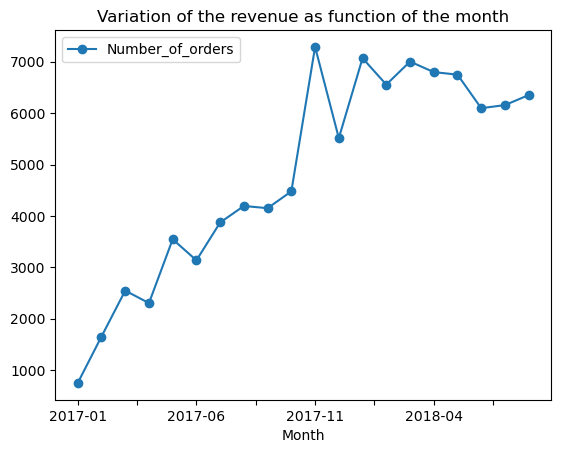
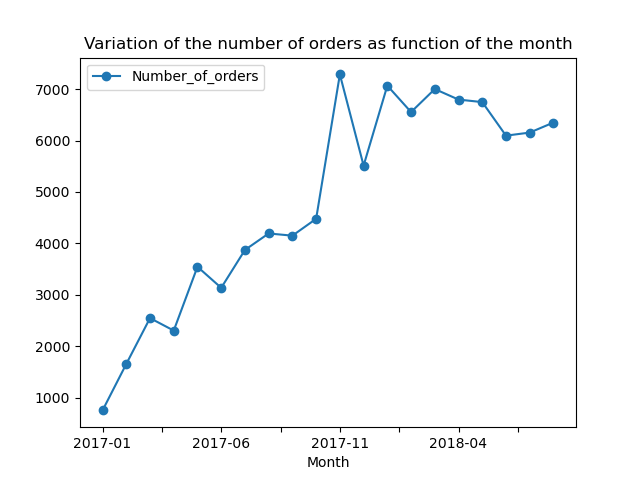
Add readme and small fixes

Changed region(s): [[0.0, 0.0, 0.9697, 0.989]]

diff --git a/findings.md b/findings.md
@@ -1,3 +1,5 @@
+**Dataset:** [Brazilian E-Commerce Public Dataset by Olist (Kaggle)](https://www.kaggle.com/datasets/olistbr/brazilian-ecommerce)
+
 ## Data checks before starting analysis
 - Customers ID count: 99441, from which 96096 are real customers with unique ID. This means that 3345 (3.4%) of orders are repeat orders, meaning they are not that customer's first order.
 -> Decision: the customer unique ID is used for customer analysis.
@@ -35,14 +37,14 @@ The top 5 days with the most orders during november 2017 are respectively the: 2
 ## Top product categories by revenue
 - The top 3 product categories by revenue make 25.92% of the total revenue. The lead goes to 'health_beauty' category with 1229557.50 in revenue corresponding to a 9.33% share of total revenue. In second place we have 'watches_gifts' category with 1163187.91 in revenue (8.83% share), and in third place 'bed_bath_table' with 1022955.77 in revenue (7.76% share). 
 - However, this doesn't mean that they are the most ordered categories since the top 3 is respectively: 'bed_bath_table' with 9267 distinct orders, 'health_beauty' with 8610 orders, and 'sports_leisure' with 7512 orders.
-- Although the category 'watches_gifts' is the most expensive between the top 3 revenue generators, it is only in the 10th place out of all categories with an average price per item of 198.73 R$. The category 'computers' is in the first place with an average of 1098.92 R$ per item. However, the category's average revenue per order is 211.91 R$. This only about 1.07 times the average item price (198.73 R$), so most orders in this category contain a single item.
+- Although the category 'watches_gifts' is the most expensive between the top 3 revenue generators, it is only in the 10th place out of all categories with an average price per item of 198.73 R$. The category 'computers' is in the first place with an average of 1098.92 R$ per item. However, the category's average revenue per order is 211.91 R$. This is only about 1.07 times the average item price (198.73 R$), so most orders in this category contain a single item.
 
 ## Delivery time by state
 - We define delivery time as the interval of time between the order purchase and its delivery to the customer. 
 We selected only states with more than 1000 delivered orders. The average delivery time over all selected states is 15.13 days. The top 3 states with the slowest average delivery time (days) are respectively: CE (21.24), BA (19.33), and PE (18.45).
 - The top 5 states in terms of number of sellers are respectively: SP (1849), PR (349), MG (244), SC (190), and RJ (171). All these states are in the southern half of Brazil, which can possibly be the reason behind the northeast states of CE, BA, and PE being the top 3 states in terms of slowest average delivery time while the state of SP is the fastest with an average of 8.74 days.
-- To test this hypothesis, we computed the average delivery days for orders with one seller. We found that single seller orders delivered within the same state take 7.9 days on average, while they 15.2 days across different states. Distance is strongly associated with delivery time, though same-state orders are mostly SP to SP, so other factors may also play a role. 
-Orders with more than one seller represent 1.35% (466 orders) of the total number for deliveries in the same state, and they represent 1.31% (806 orders) for deliveries between different states.
+- To test this hypothesis, we computed the average delivery days for orders with one seller. We found that single seller orders delivered within the same state take 7.9 days on average, while those across different states take 15.2 days. Distance is strongly associated with delivery time, though same-state orders are mostly SP to SP, so other factors may also play a role. 
+Orders with several sellers were excluded from this comparison (466 same-state orders, 1.35% of total same state orders; 806 cross-state orders, 1.31%).
 
 ## Late delivery vs reviews
 - Orders with late delivery compared to the estimated delivery date have an average review score of 2.57/5 (7658 orders). On the other hand, orders delivered on time have an average of 4.3/5 (87902 orders). In addition, 164 orders delivered late got no reviews, compared to 479 for orders delivered on time. In total, 8.13% of orders are delivered late.
@@ -51,7 +53,7 @@ Orders with more than one seller represent 1.35% (466 orders) of the total numbe
 - In summary, late orders score 1.73 points lower, and about 46% of them get 1 star versus 6.5% of on-time orders, so delays are strongly associated with dissatisfaction.
 
 ## Cumulative revenue
-- 10% of the total revenue was earned by the end of May 2017 (after 5 months). By the end of September 2017(after 9 months), revenues had passed 25% of the total. Half of all the revenue was earned by the end of January 2018 (after 13 months).
+- 10% of the total revenue was earned by the end of May 2017 (after 5 months). By the end of September 2017 (after 9 months), revenues had passed 25% of the total. Half of all the revenue was earned by the end of January 2018 (after 13 months).
 
 ## Top 3 sellers per category
 - For the top 5 categories in terms of revenue ('health_beauty', 'watches_gifts', 'bed_bath_table', 'sports_leisure', 'computers_accessories'), 'watches_gifts' sits on the top of the table in terms of concentration of sales. The top 3 sellers for this category contribute respectively to: 17.1%, 16.2%, and 13.6% of its total revenue, which adds up to 46.9%.

diff --git a/README.md b/README.md
@@ -1,0 +1,36 @@
+# Olist E-commerce Analysis (SQL + Python)
+
+This project is an analysis of a Brazilian online marketplace called Olist. I analysed delivered orders from January 2017 till August 2018 (96203 orders) since the months outside that range had too few orders. I used SQL and Python to answer several business questions on the revenue growth, category income, delivery time, top sellers, and repeat customers.
+
+- Data: [Brazilian E-Commerce Public Dataset by Olist (Kaggle)](https://www.kaggle.com/datasets/olistbr/brazilian-ecommerce)
+- Tools: SQLite, SQL (CTEs, window functions), Python (sqlite3, pandas, matplotlib)
+- Full report with all numbers and decisions: [findings.md](findings.md)
+
+## Key findings
+
+1. Late deliveries affect reviews: Orders delivered late are 8.13% of all orders and have an average review score of 2.57/5, compared to 4.3/5 for on time deliveries. This is illustrated in the drastic fall of the average score the later the order is delivered. In fact, orders delivered under 24h late have an average review of 4.04 while this number decreases to 1.71 for orders delivered after 11 days or more.
+![](images/Avg_review_score_vs_late_delivery_days.png)
+
+2. The distance between the seller and the customer is associated with slower delivery: Among single seller orders, orders within the same state take on average 7.9 days to be delivered. On the other hand, orders from different states take on average 15.2 days for delivery.
+![](images/Delivery_time_vs_distance.png)
+
+3. Most revenue came early, then a Black Friday spike: Half of the total business revenue was earned by the end of January 2018 (month 13/20). However, a Black Friday spike occurred in November 2017 with 1176 orders in one day.
+![](images/cumulative_revenue.png)
+
+4. Most customers buy only once: 97% of customers ordered only once, which suggests retention could be a growth lever.
+
+5. Sales concentration varies by category: The category 'watches_gifts' shows to be very concentrated with the top 3 sellers producing 46.9% of its total revenue (with only 95 sellers in total). The category 'bed_bath_table' is also fairly concentrated (36%). However, this is not the case for the other three top categories as the top three sellers contribute to only 4-6% of the revenue.
+
+## Possible recommendations
+- Monitor orders at risk of being more than 2 days late. That is where scores fall fastest.
+- Give more realistic delivery estimates for cross-state orders.
+- Test retention actions (for example, follow-up offers after a first delivered order).
+
+## Limitations
+The results show associations, not causes. Data covers 2017-2018 only. A customer may have bought elsewhere, so a one-time buyer means one order on Olist.
+
+## How to run
+1. Install requirements by running : `pip install -r requirements.txt`
+2. Download the dataset from Kaggle and put the CSV files in `data/raw/`.
+3. Run `python load_db.py` to build the SQLite database.
+4. Open `analysis.ipynb` or run the queries in `sql/`.
